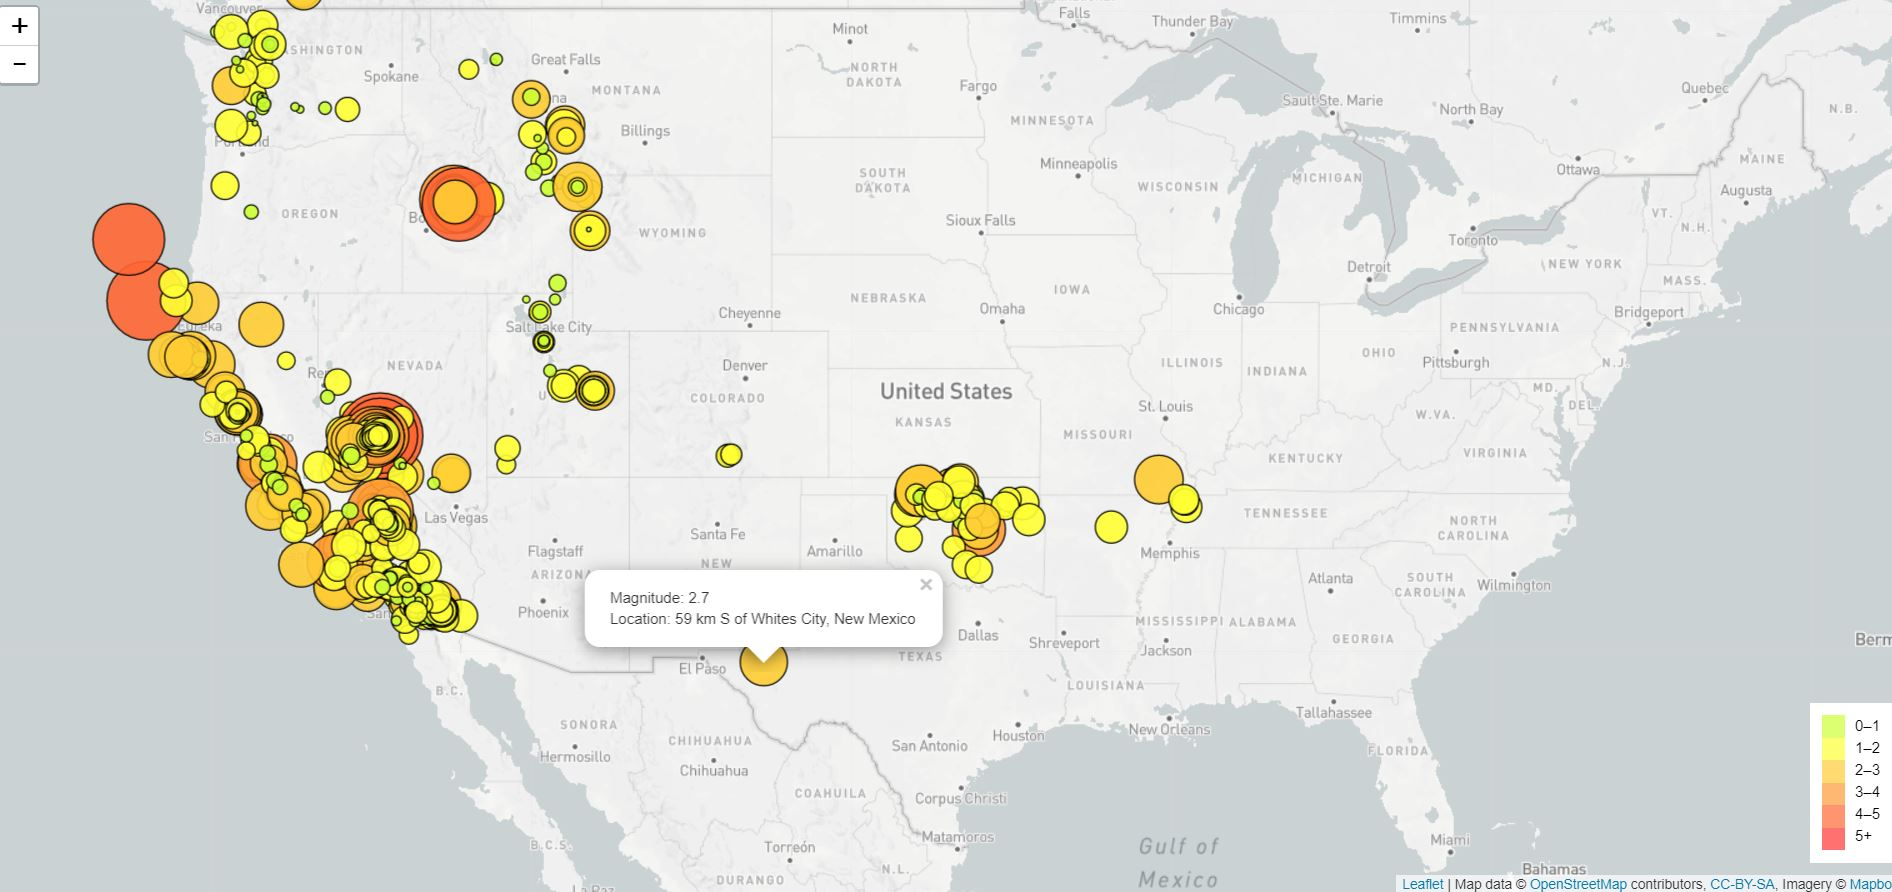
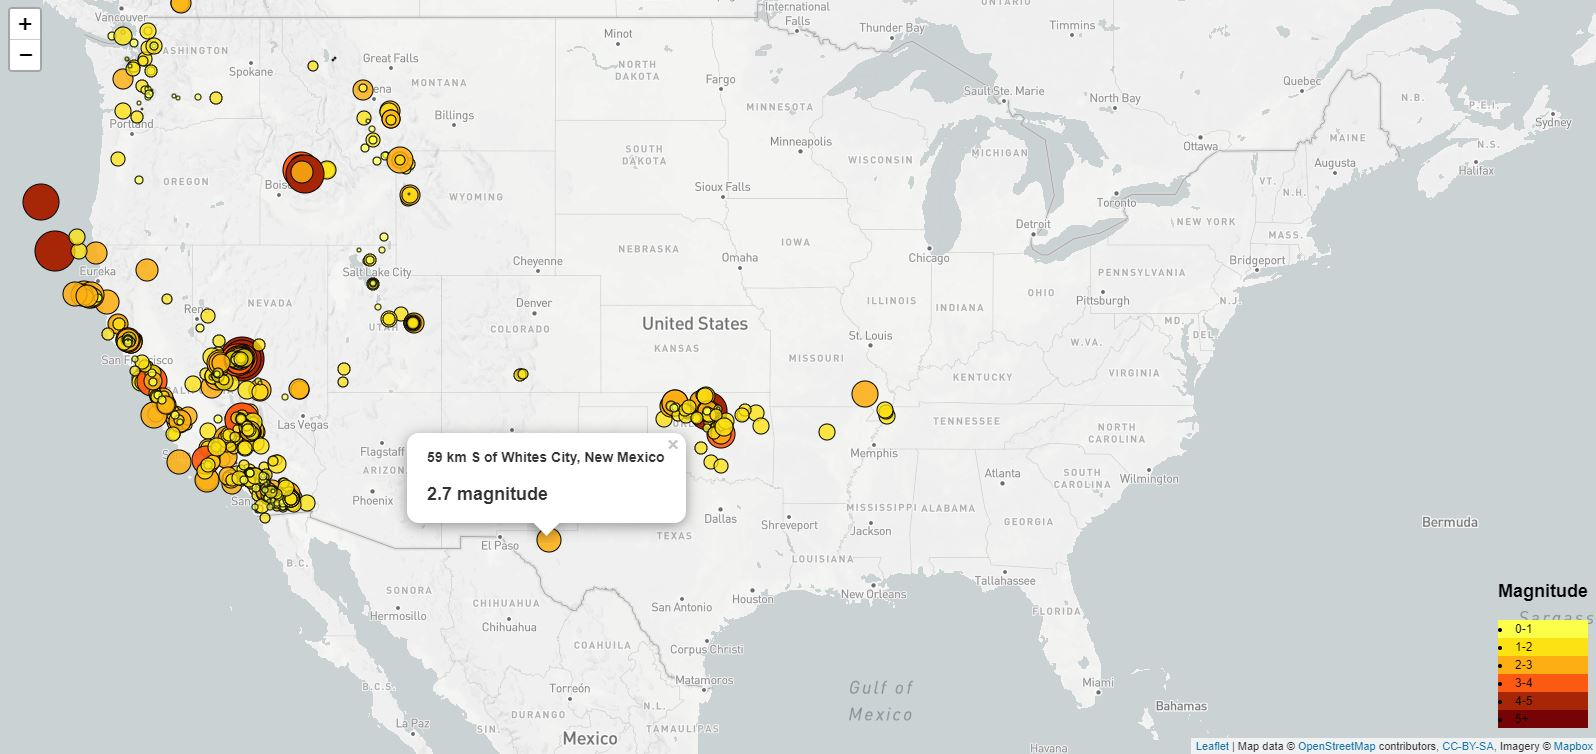
final push

diff --git a/Instructions_Updated/static/js/logic.js b/Instructions_Updated/static/js/logic.js
@@ -1,0 +1,91 @@
+
+var map = L.map("map", {
+    center: [40, -111],
+    zoom: 4
+  });
+  
+  L.tileLayer("https://api.mapbox.com/styles/v1/mapbox/light-v9/tiles/256/{z}/{x}/{y}?access_token={accessToken}", {
+    attribution: "Map data &copy; <a href=\"https://www.openstreetmap.org/\">OpenStreetMap</a> contributors, <a href=\"https://creativecommons.org/licenses/by-sa/2.0/\">CC-BY-SA</a>, Imagery © <a href=\"https://www.mapbox.com/\">Mapbox</a>",
+    maxZoom: 18,
+    id: "mapbox.light",
+    accessToken: API_KEY
+  }).addTo(map);
+  
+  var link = "https://earthquake.usgs.gov/earthquakes/feed/v1.0/summary/all_week.geojson";
+  
+  // Function that will determine the color of a neighborhood based on the borough it belongs to
+  function chooseColor(a) {
+      switch (true){
+      case (a > 0) && (a <= 1):
+        return "#FFFF44";
+      case (a > 1) && (a <= 2):
+        return "#FFDD00";
+      case (a > 2) && (a <= 3):
+        return "#FFAA00";
+      case (a > 3) && (a <= 4):
+        return "#FF5500";
+      case (a > 4) && (a <= 5):
+        return "#AA2200";
+      case (a >  5):
+        return "#770000";
+      };
+  };
+  
+  d3.json(link, function(data) {
+  
+     function onEachFeature(feature, layer) {
+      var popupContent = "<h3>" + feature.properties.place+"</h3><h2>"+feature.properties.mag+" magnitude</h2>";
+      
+      if (feature.properties && feature.properties.popupContent) {
+        popupContent += feature.properties.popupContent;
+      }
+      layer.bindPopup(popupContent);
+      //console.log(feature)
+     };
+  
+     L.geoJSON(data, {
+  
+      style: function (feature) {
+        return feature.properties && feature.properties.style;
+      },
+  
+      onEachFeature: onEachFeature,
+  
+      pointToLayer: function (feature, latlng) {
+        return L.circleMarker(latlng, {
+          radius: feature.properties.mag * 4.5,
+          fillColor: chooseColor(feature.properties.mag),
+          color: "#000",
+          weight: 1,
+          opacity: 1,
+          fillOpacity: .6 + feature.properties.mag/10
+        });
+      }
+    }).addTo(map);
+  
+  
+    // Set up the legend
+    var legend = L.control({ position: "bottomright" });
+    legend.onAdd = function() {
+      var div = L.DomUtil.create("div", "info legend");
+      var limits = [0,1,2,3,4,5]
+      var colors = ["#FFFF44", "#FFDD00","#FFAA00","#FF5500","#AA2200","#770000"]
+      var labels = ['0-1','1-2','2-3','3-4','4-5','5+'];
+  
+      // Add min & max
+      var legendInfo = "<h2>Magnitude</h2>"
+  
+      div.innerHTML = legendInfo;
+  
+      limits.forEach(function(limit, index) {
+        div.innerHTML += "<li style=\"background-color: " + colors[index] + "\">"+labels[index]+"</li>"
+      });
+      return div;
+    };
+  
+    // Adding legend to the map
+    legend.addTo(map);
+  
+  
+  });
+

diff --git a/Instructions_Updated/static/js/config.js b/Instructions_Updated/static/js/config.js
@@ -1,2 +1,2 @@
 // API key
-const API_KEY = "pk.eyJ1Ijoib2puZGViYmlvIiwiYSI6ImNrYWg1amNoMzBhMGsyemxsc215YW5ibmkifQ.-fd33ed8Go7_LxH_iAUYBw";
+const API_KEY = "pk.eyJ1Ijoib2puZGViYmlvIiwiYSI6ImNrYm9lMXo5MTFkenMyeHFuZzkwaGlieGMifQ.bq1HbLbLbp-XdlhxuDQfyA";

diff --git a/Instructions_Updated/static/css/style.css b/Instructions_Updated/static/css/style.css
@@ -1,10 +1,16 @@
+/* remove default margin and padding from body */
 body {
   padding: 0;
   margin: 0;
 }
 
+/* set map, body, and html to 100% of the screen size */
 #map,
 body,
 html {
   height: 100%;
+}
+
+h1 {
+  text-align: center;
 }

diff --git a/Instructions_Updated/index.html b/Instructions_Updated/index.html
@@ -24,6 +24,7 @@
   <div id="map"></div>
 
   <!-- Our JavaScript -->
+  <script type="text/javascript" src="static/js/config.js"></script>
   <script type="text/javascript" src="static/js/logic.js"></script>
 </body>
 </html>

diff --git a/Instructions_Updated/README.md b/Instructions_Updated/README.md
@@ -11,5 +11,4 @@ In this project, a summary of all earthquakes in the last week (7 days) was plot
 ### Data Used:
 * https://earthquake.usgs.gov/earthquakes/feed/v1.0/summary/all_week.geojson
 
-![Level-1 Visualization](https://user-images.githubusercontent.com/60052162/85216566-901d9b80-b34b-11ea-8f00-fe912df9935f.JPG)
-
+![Level-1 Visualization](https://user-images.githubusercontent.com/60052162/85217104-af6bf700-b352-11ea-9785-44062a5f3409.JPG))
